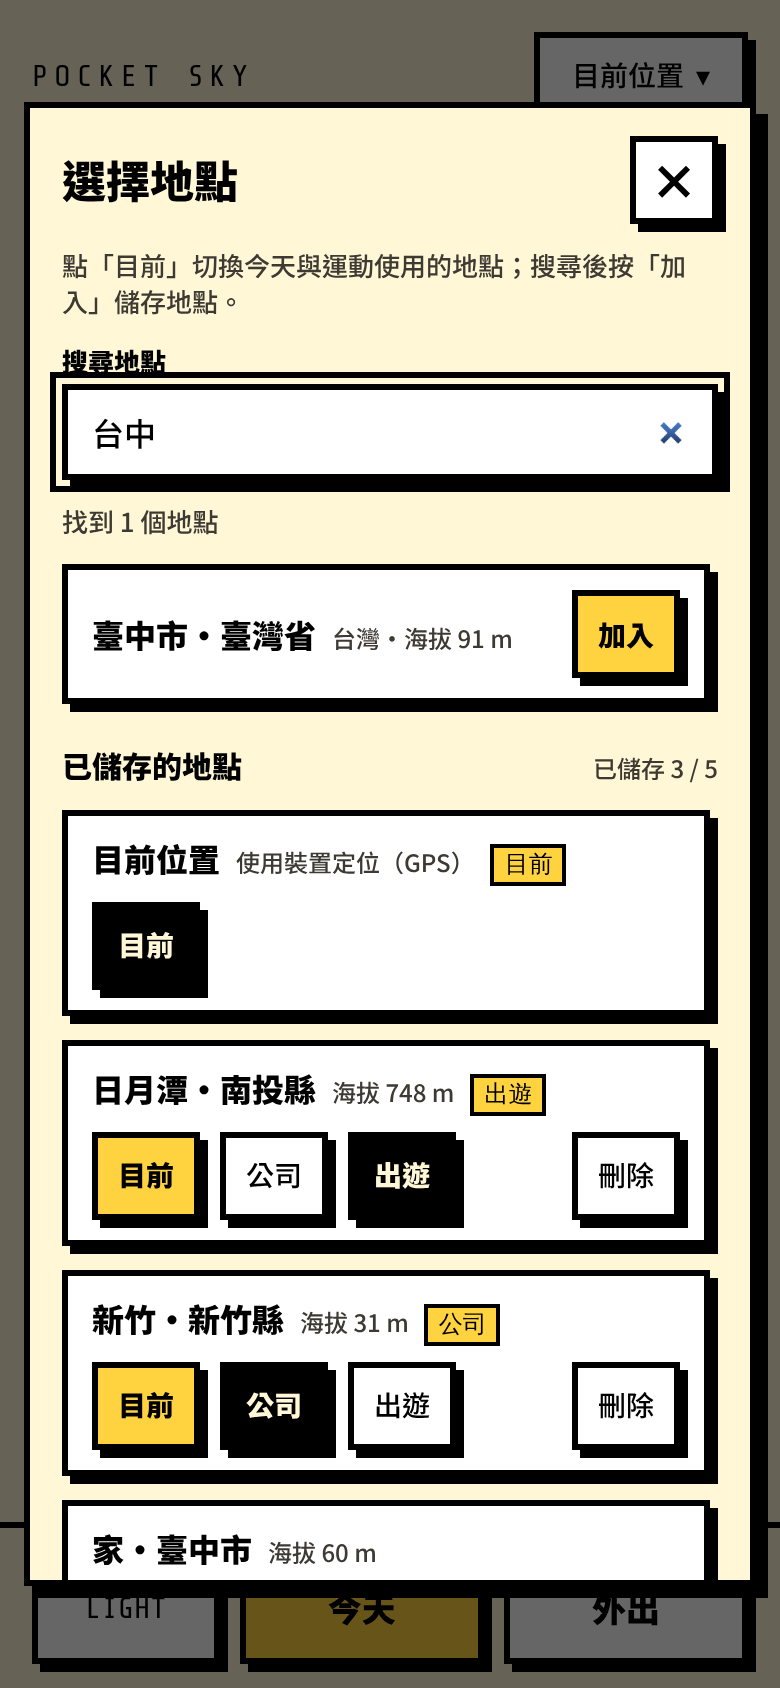
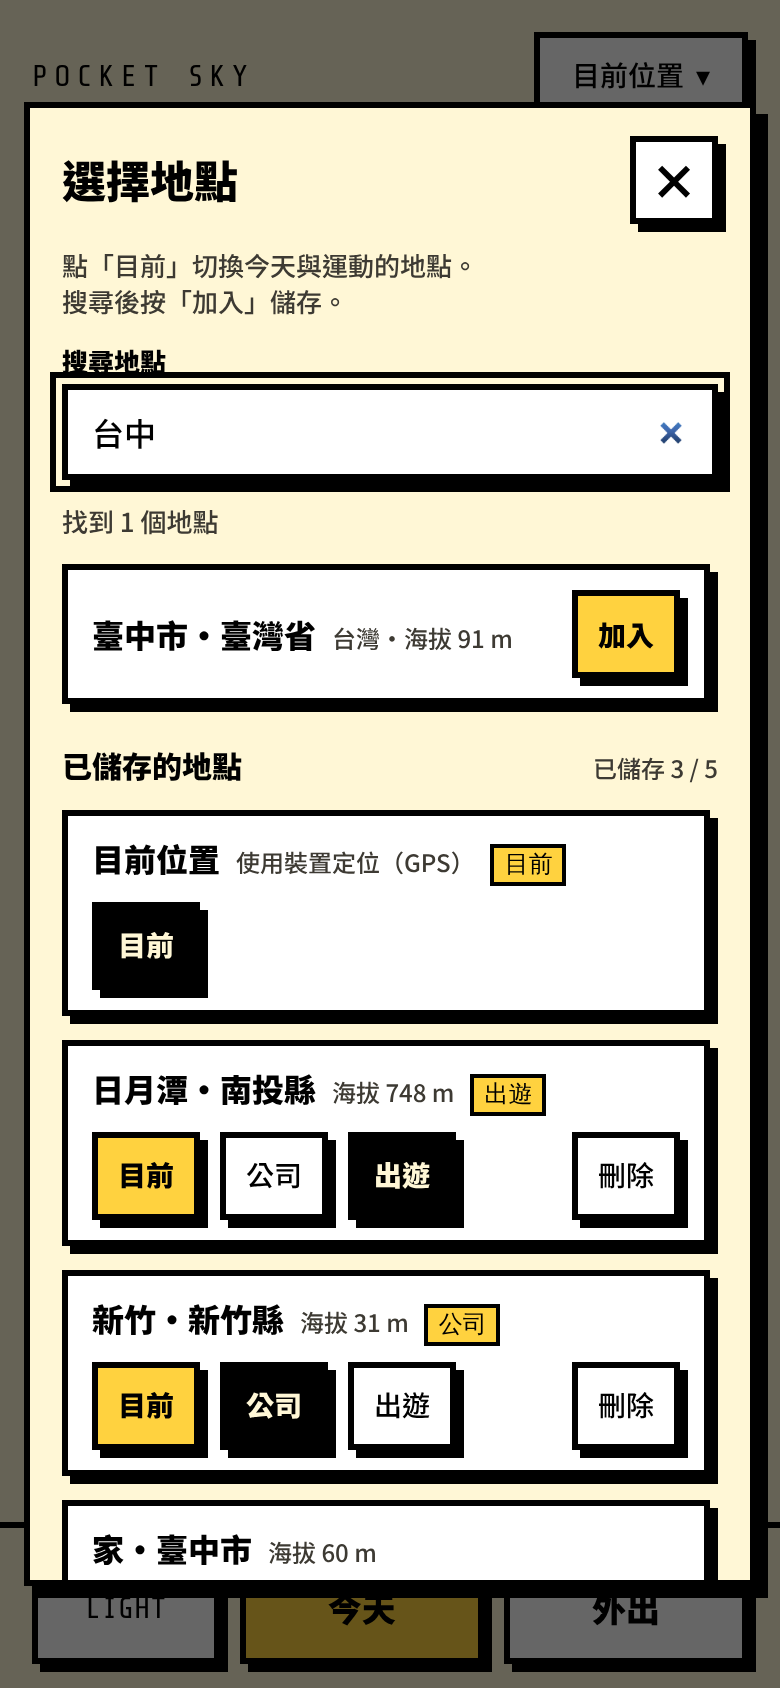
docs: regenerate stale M4 screenshots; handoff status after M4 fixes
Claude-Session: https://claude.ai/code/session_01Wh9v8ZCiq8tKrRc79SNtfj

diff --git a/docs/HANDOFF.md b/docs/HANDOFF.md
@@ -16,12 +16,14 @@
 | M1 | 資料層：time / cache / store / Open-Meteo client / derive | ✅ PR #1 已合併 |
 | M2 | 今天頁：LCD、提醒、主題（日夜）、a11y、CSP | ✅ PR #2 已合併 |
 | M3 | 外出頁：通勤、運動、準備清單與評分規則 | ✅ PR #3 已合併 |
-| M4 | 地點搜尋／收藏、公司地點、出遊、manifest＋圖示 | 🟡 分支 `m4-places`，審查兩輪通過，最後一批修正（見 §3）完成後開 PR #4 |
+| M4 | 地點搜尋／收藏、公司地點、出遊、manifest＋圖示 | 🟡 分支 `m4-places`，全部修正完成，PR #4 已開、等使用者同意合併（見 §3） |
 | M5 | 動畫細節、離線降級、service worker、Lighthouse、部署 GitHub Pages | ⬜ 未開始 |
 
-## 3. 交接當下的進行中工作（M4 最後一批）
+## 3. 交接當下的狀態（M4 收尾）
 
-分支 `m4-places`。第二輪審查結論「可合併」，但 lead 決定合併前先修以下項目（已派 Sonnet agent 處理；若未完成或未 commit，請照此清單完成）：
+**已完成**：以下最後一批修正已在 commit `612981d` 完成（unit 508、e2e 88 全過，截圖已重產）。PR #4 已開：https://github.com/CCYu025/pocket-sky/pull/4 。**下次第一步**：確認 PR #4 的 CI 是綠的 → 請使用者回覆「合併 PR #4」→ 合併 → 同步 `main` → 開 `m5-pwa-deploy` 分支並寫 M5 規格（§4）。
+
+（以下為該批修正的內容紀錄）
 
 1. **N1** `js/rules/trip.js` `wetSpan`：雨天區間改為「連續雨段」敘述（單段 `15–19 時`；兩段 `09 時、15 時`；三段以上 `多個時段`），建議時段不得落在雨段內。
 2. **N2** `bestWindow` 的「乾」判定加上 `rain < 0.5 mm`（與雨傘規則一致）。
@@ -32,7 +34,7 @@
 
 **完成判定**：`npm test`、`npm run test:e2e` 全過（跑兩次）、預設 e2e 後 `git status` 乾淨、審查員 probe7 通過、重產截圖並目視 trip-night / picker。然後：push → 開 PR #4（`gh api repos/CCYu025/pocket-sky/pulls ...`，GraphQL 不可用）→ 等 CI（unit + e2e）綠 → **請使用者明確同意後**才合併（合併動作會被權限分類器擋，需使用者回覆「合併 PR #4」）。
 
-交接時最後已推送的 commit：`c54f399`（M4 第一輪修正＋截圖）。M4 測試基準：unit 497、e2e 87。
+M4 測試基準：unit 508、e2e 88。
 
 ## 4. 下一步：M5 範圍（尚未寫規格）
 
